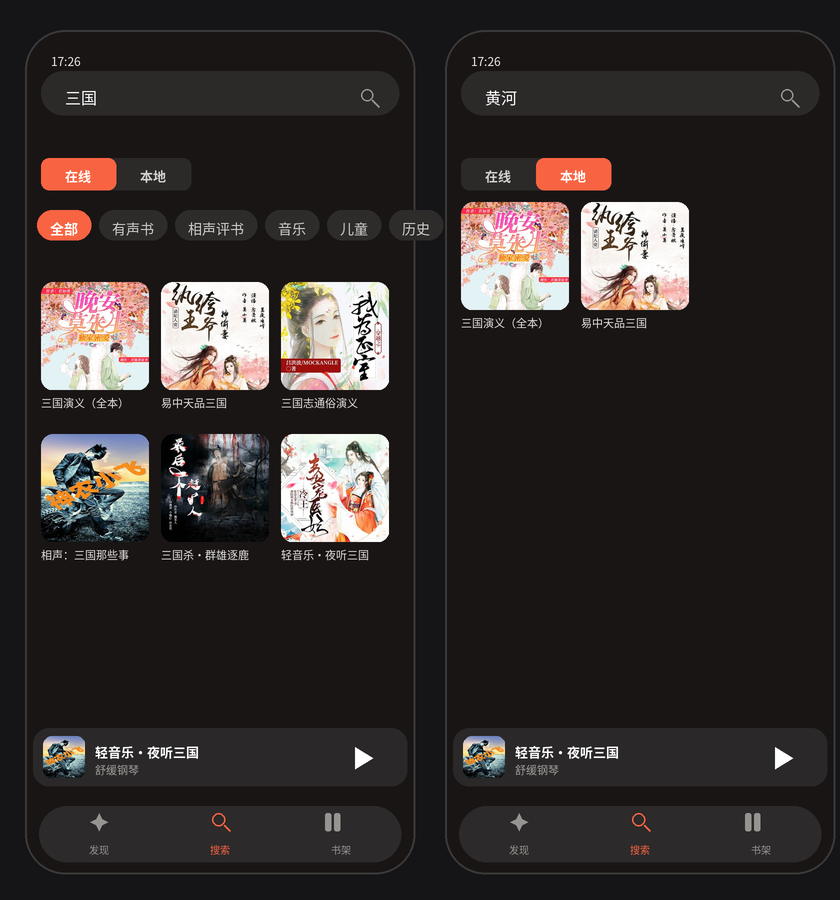
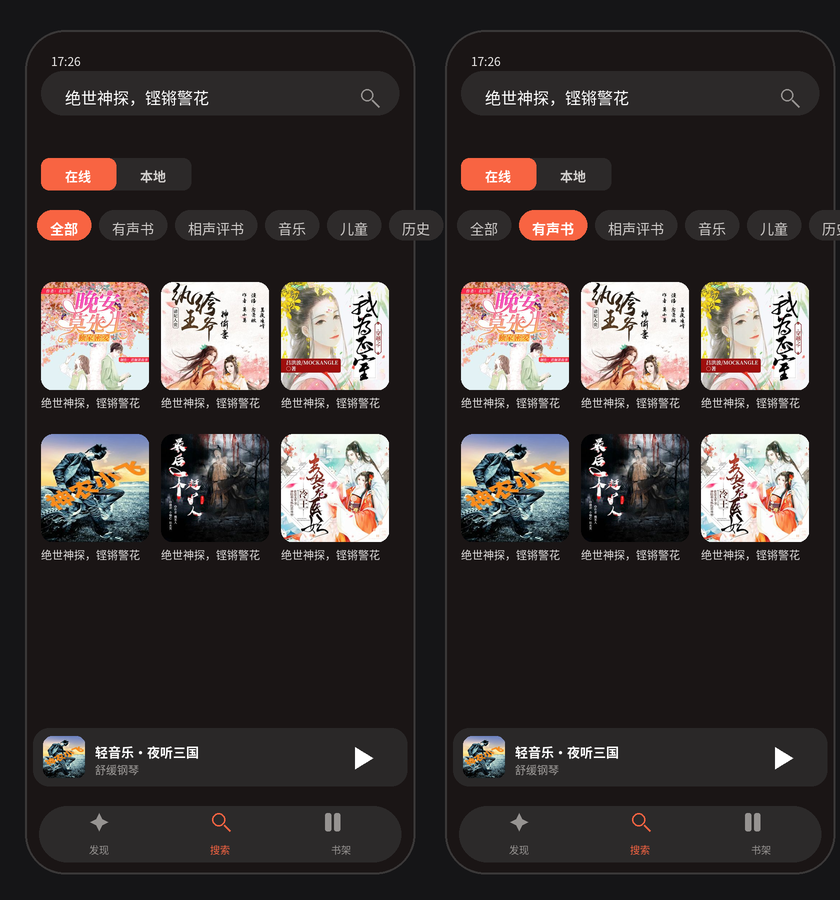
有声书改成兜底分类(不属于其他类即有声书)

diff --git a/src/ADViews.m b/src/ADViews.m
@@ -663,7 +663,7 @@
 }
 
 - (NSArray *)catWords:(NSInteger)i {
-    NSArray *map = @[@[], @[@"小说", @"传", @"故事", @"全集", @"演义", @"仙", @"医", @"明星", @"帝", @"都市", @"剑", @"记"],
+    NSArray *map = @[@[], @[],
                      @[@"相声", @"评书", @"单口", @"德云", @"郭德纲", @"小品", @"段子", @"说书"],
                      @[@"音乐", @"钢琴", @"古筝", @"纯音乐", @"轻音乐", @"歌曲", @"助眠", @"白噪音", @"吉他", @"睡眠"],
                      @[@"儿童", @"宝宝", @"睡前", @"童话", @"儿歌", @"绘本", @"成语", @"幼儿"],
@@ -714,12 +714,28 @@
     }
 }
 
-- (BOOL)catMatch:(ADAlbum *)a {
-    if (self.catIndex == 0) return YES;
-    NSArray *words = [self catWords:self.catIndex];
-    NSString *hay = [NSString stringWithFormat:@"%@ %@ %@ %@", a.title ?: @"", a.anchor ?: @"", a.author ?: @"", a.intro ?: @""];
+- (NSString *)hayOf:(ADAlbum *)a {
+    return [NSString stringWithFormat:@"%@ %@ %@ %@", a.title ?: @"", a.anchor ?: @"", a.author ?: @"", a.intro ?: @""];
+}
+
+- (BOOL)titleMatches:(ADAlbum *)a category:(NSInteger)idx {
+    NSArray *words = [self catWords:idx];
+    if (!words.count) return NO;
+    NSString *hay = [self hayOf:a];
     for (NSString *w in words) if ([hay rangeOfString:w].location != NSNotFound) return YES;
     return NO;
+}
+
+- (BOOL)catMatch:(ADAlbum *)a {
+    if (self.catIndex == 0) return YES;
+    if (self.catIndex == 1) {
+        // 这个服务本身就是有声书库，「有声书」= 不属于其他分类的全部内容
+        for (NSInteger i = 2; i < (NSInteger)[self catTitles].count; i++) {
+            if ([self titleMatches:a category:i]) return NO;
+        }
+        return YES;
+    }
+    return [self titleMatches:a category:self.catIndex];
 }
 
 - (NSArray<ADAlbum *> *)visible {
